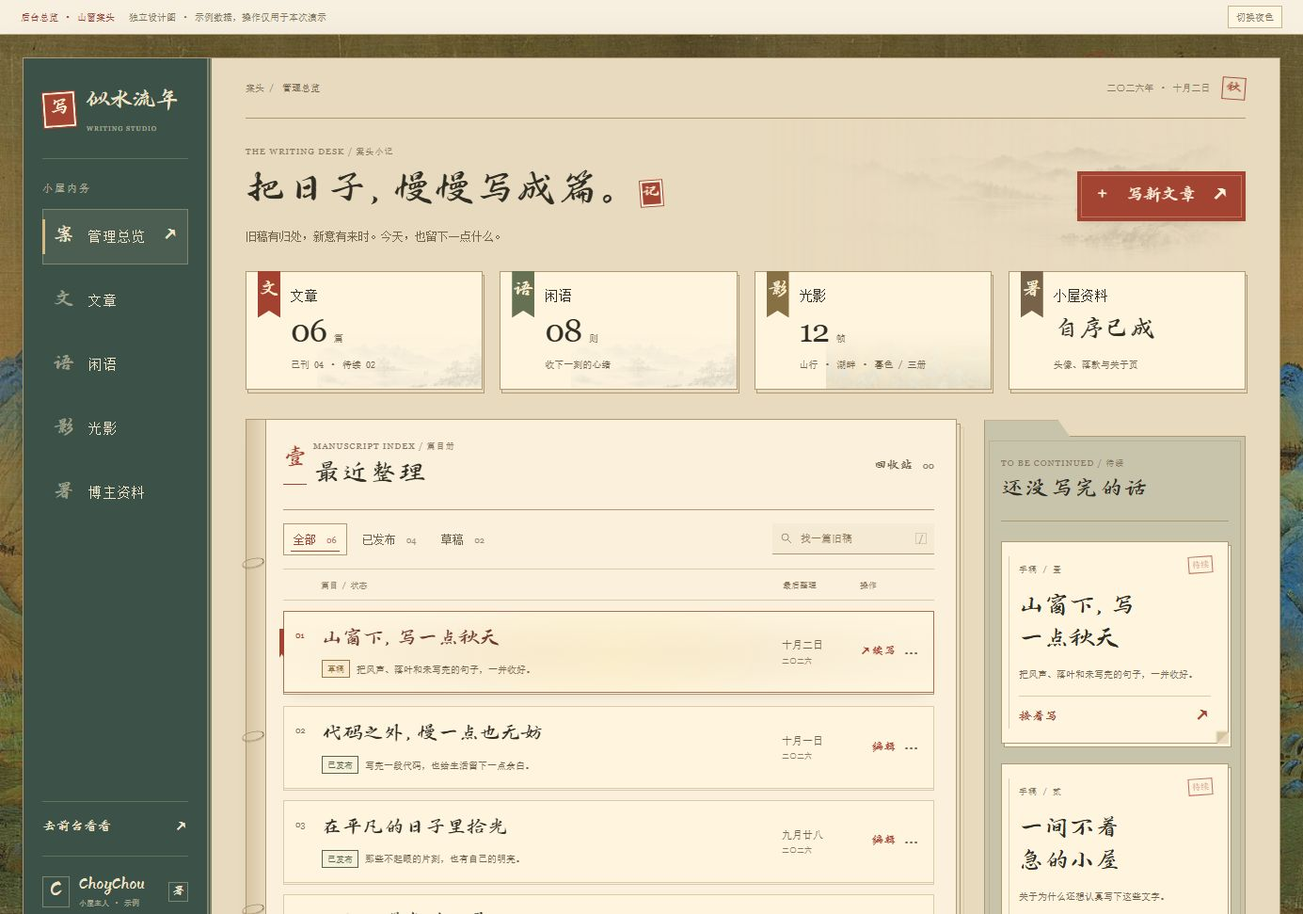
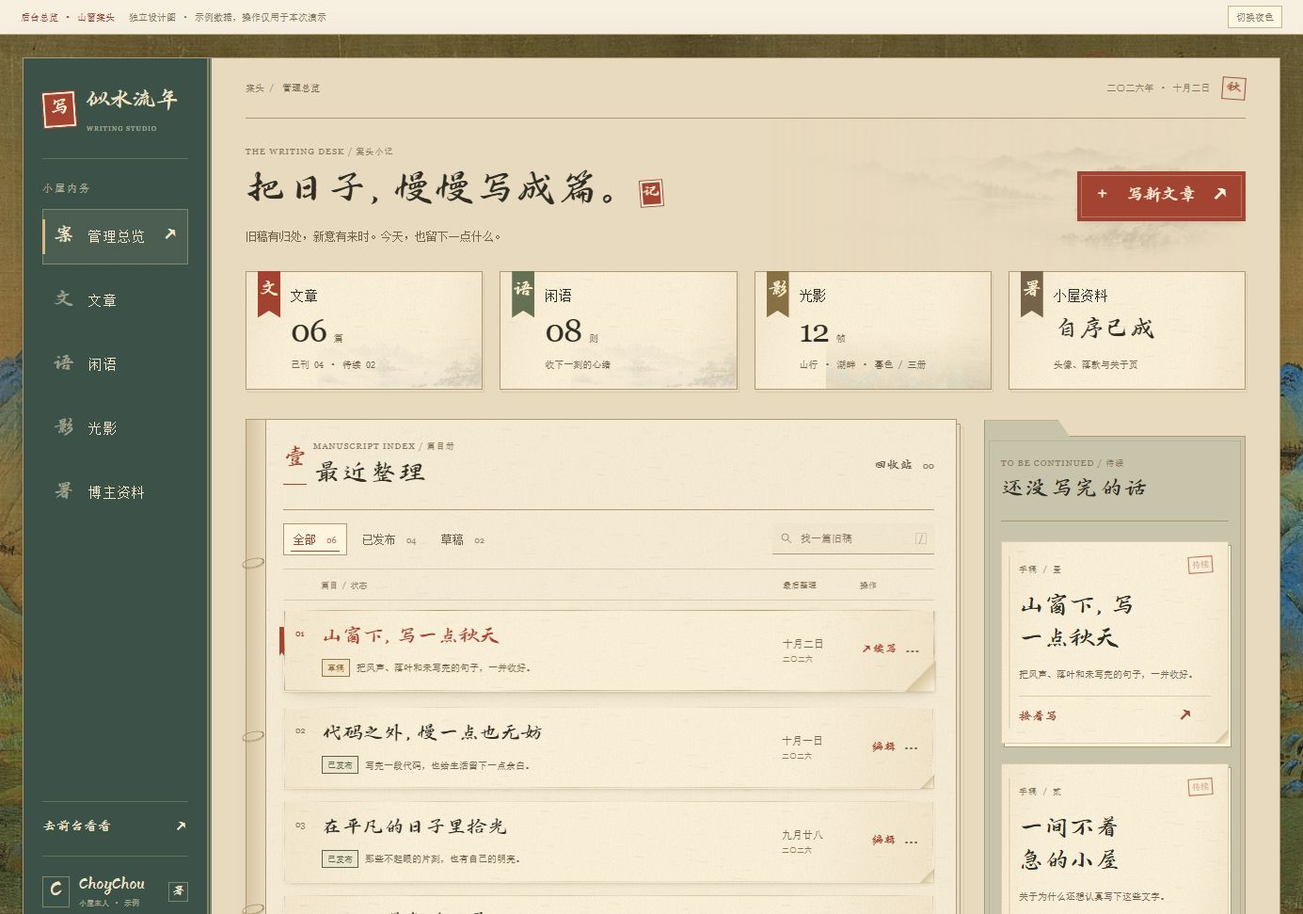
design(admin): add matte paper texture and page motion

diff --git a/effect-preview/admin-desk-overview-v1.html b/effect-preview/admin-desk-overview-v1.html
@@ -33,12 +33,12 @@
           <div class="filter-line"><div class="filters" role="group" aria-label="文章发布状态"><button type="button" data-filter="all" aria-pressed="true">全部 <span>06</span></button><button type="button" data-filter="published" aria-pressed="false">已发布 <span>04</span></button><button type="button" data-filter="draft" aria-pressed="false">草稿 <span>02</span></button></div><label class="search"><svg viewBox="0 0 20 20" aria-hidden="true"><circle cx="8" cy="8" r="5"></circle><path d="m12 12 5 5"></path></svg><input id="search" type="search" placeholder="找一篇旧稿" aria-label="搜索标题、摘要或 slug"><kbd aria-hidden="true">/</kbd></label></div>
           <div class="list-caption" aria-hidden="true"><span>篇目 / 状态</span><span>最后整理</span><span>操作</span></div>
           <div class="post-list" aria-label="最近文章" role="list">
-            <article class="post" role="listitem" data-id="1" data-status="draft" data-date="2026-10-02" data-slug="autumn-window"><span class="post-index" aria-hidden="true">01</span><div class="post-copy"><button class="post-title" type="button">山窗下，写一点秋天</button><p>把风声、落叶和未写完的句子，一并收好。</p><div><span class="status draft">草稿</span><span class="post-slug">/autumn-window</span></div></div><time datetime="2026-10-02">十月二日<small>二〇二六</small></time><div class="post-ops"><button class="edit-post" type="button">续写 <span>↗</span></button><details><summary aria-label="山窗下，写一点秋天：更多操作">···</summary><div><button class="trash-post" type="button">移入回收站</button></div></details></div></article>
-            <article class="post" role="listitem" data-id="2" data-status="published" data-date="2026-10-01" data-slug="slow-code"><span class="post-index" aria-hidden="true">02</span><div class="post-copy"><button class="post-title" type="button">代码之外，慢一点也无妨</button><p>写完一段代码，也给生活留下一点余白。</p><div><span class="status published">已发布</span><span class="post-slug">/slow-code</span></div></div><time datetime="2026-10-01">十月一日<small>二〇二六</small></time><div class="post-ops"><button class="edit-post" type="button">编辑 <span>↗</span></button><details><summary aria-label="代码之外，慢一点也无妨：更多操作">···</summary><div><button class="trash-post" type="button">移入回收站</button></div></details></div></article>
-            <article class="post" role="listitem" data-id="3" data-status="published" data-date="2026-09-28" data-slug="daily-light"><span class="post-index" aria-hidden="true">03</span><div class="post-copy"><button class="post-title" type="button">在平凡的日子里拾光</button><p>那些不起眼的片刻，也有自己的明亮。</p><div><span class="status published">已发布</span><span class="post-slug">/daily-light</span></div></div><time datetime="2026-09-28">九月廿八<small>二〇二六</small></time><div class="post-ops"><button class="edit-post" type="button">编辑 <span>↗</span></button><details><summary aria-label="在平凡的日子里拾光：更多操作">···</summary><div><button class="trash-post" type="button">移入回收站</button></div></details></div></article>
-            <article class="post" role="listitem" data-id="4" data-status="draft" data-date="2026-09-26" data-slug="unhurried-room"><span class="post-index" aria-hidden="true">04</span><div class="post-copy"><button class="post-title" type="button">一间不着急的小屋</button><p>关于为什么还想认真写下这些文字。</p><div><span class="status draft">草稿</span><span class="post-slug">/unhurried-room</span></div></div><time datetime="2026-09-26">九月廿六<small>二〇二六</small></time><div class="post-ops"><button class="edit-post" type="button">续写 <span>↗</span></button><details><summary aria-label="一间不着急的小屋：更多操作">···</summary><div><button class="trash-post" type="button">移入回收站</button></div></details></div></article>
-            <article class="post" role="listitem" data-id="5" data-status="published" data-date="2026-09-22" data-slug="mountain-path"><span class="post-index" aria-hidden="true">05</span><div class="post-copy"><button class="post-title" type="button">沿着山路，走走停停</button><p>把经过的桥与远山，存进一册记忆。</p><div><span class="status published">已发布</span><span class="post-slug">/mountain-path</span></div></div><time datetime="2026-09-22">九月廿二<small>二〇二六</small></time><div class="post-ops"><button class="edit-post" type="button">编辑 <span>↗</span></button><details><summary aria-label="沿着山路，走走停停：更多操作">···</summary><div><button class="trash-post" type="button">移入回收站</button></div></details></div></article>
-            <article class="post" role="listitem" data-id="6" data-status="published" data-date="2026-09-18" data-slug="first-letter"><span class="post-index" aria-hidden="true">06</span><div class="post-copy"><button class="post-title" type="button">写给路过这里的你</button><p>山水有相逢，来日皆可期。</p><div><span class="status published">已发布</span><span class="post-slug">/first-letter</span></div></div><time datetime="2026-09-18">九月十八<small>二〇二六</small></time><div class="post-ops"><button class="edit-post" type="button">编辑 <span>↗</span></button><details><summary aria-label="写给路过这里的你：更多操作">···</summary><div><button class="trash-post" type="button">移入回收站</button></div></details></div></article>
+            <article class="post" role="listitem" data-id="1" data-status="draft" data-date="2026-10-02" data-slug="autumn-window"><span class="post-index" aria-hidden="true">01</span><div class="post-copy"><button class="post-title" type="button">山窗下，写一点秋天</button><p>把风声、落叶和未写完的句子，一并收好。</p><div><span class="status draft">草稿</span><span class="post-slug">/autumn-window</span></div></div><time datetime="2026-10-02">十月二日<small>二〇二六</small></time><div class="post-ops"><button class="edit-post" type="button">续写 <span>↗</span></button><details><summary aria-label="山窗下，写一点秋天：更多操作">···</summary><div><button class="trash-post" type="button">移入回收站</button></div></details></div><i class="paper-corner" aria-hidden="true"></i></article>
+            <article class="post" role="listitem" data-id="2" data-status="published" data-date="2026-10-01" data-slug="slow-code"><span class="post-index" aria-hidden="true">02</span><div class="post-copy"><button class="post-title" type="button">代码之外，慢一点也无妨</button><p>写完一段代码，也给生活留下一点余白。</p><div><span class="status published">已发布</span><span class="post-slug">/slow-code</span></div></div><time datetime="2026-10-01">十月一日<small>二〇二六</small></time><div class="post-ops"><button class="edit-post" type="button">编辑 <span>↗</span></button><details><summary aria-label="代码之外，慢一点也无妨：更多操作">···</summary><div><button class="trash-post" type="button">移入回收站</button></div></details></div><i class="paper-corner" aria-hidden="true"></i></article>
+            <article class="post" role="listitem" data-id="3" data-status="published" data-date="2026-09-28" data-slug="daily-light"><span class="post-index" aria-hidden="true">03</span><div class="post-copy"><button class="post-title" type="button">在平凡的日子里拾光</button><p>那些不起眼的片刻，也有自己的明亮。</p><div><span class="status published">已发布</span><span class="post-slug">/daily-light</span></div></div><time datetime="2026-09-28">九月廿八<small>二〇二六</small></time><div class="post-ops"><button class="edit-post" type="button">编辑 <span>↗</span></button><details><summary aria-label="在平凡的日子里拾光：更多操作">···</summary><div><button class="trash-post" type="button">移入回收站</button></div></details></div><i class="paper-corner" aria-hidden="true"></i></article>
+            <article class="post" role="listitem" data-id="4" data-status="draft" data-date="2026-09-26" data-slug="unhurried-room"><span class="post-index" aria-hidden="true">04</span><div class="post-copy"><button class="post-title" type="button">一间不着急的小屋</button><p>关于为什么还想认真写下这些文字。</p><div><span class="status draft">草稿</span><span class="post-slug">/unhurried-room</span></div></div><time datetime="2026-09-26">九月廿六<small>二〇二六</small></time><div class="post-ops"><button class="edit-post" type="button">续写 <span>↗</span></button><details><summary aria-label="一间不着急的小屋：更多操作">···</summary><div><button class="trash-post" type="button">移入回收站</button></div></details></div><i class="paper-corner" aria-hidden="true"></i></article>
+            <article class="post" role="listitem" data-id="5" data-status="published" data-date="2026-09-22" data-slug="mountain-path"><span class="post-index" aria-hidden="true">05</span><div class="post-copy"><button class="post-title" type="button">沿着山路，走走停停</button><p>把经过的桥与远山，存进一册记忆。</p><div><span class="status published">已发布</span><span class="post-slug">/mountain-path</span></div></div><time datetime="2026-09-22">九月廿二<small>二〇二六</small></time><div class="post-ops"><button class="edit-post" type="button">编辑 <span>↗</span></button><details><summary aria-label="沿着山路，走走停停：更多操作">···</summary><div><button class="trash-post" type="button">移入回收站</button></div></details></div><i class="paper-corner" aria-hidden="true"></i></article>
+            <article class="post" role="listitem" data-id="6" data-status="published" data-date="2026-09-18" data-slug="first-letter"><span class="post-index" aria-hidden="true">06</span><div class="post-copy"><button class="post-title" type="button">写给路过这里的你</button><p>山水有相逢，来日皆可期。</p><div><span class="status published">已发布</span><span class="post-slug">/first-letter</span></div></div><time datetime="2026-09-18">九月十八<small>二〇二六</small></time><div class="post-ops"><button class="edit-post" type="button">编辑 <span>↗</span></button><details><summary aria-label="写给路过这里的你：更多操作">···</summary><div><button class="trash-post" type="button">移入回收站</button></div></details></div><i class="paper-corner" aria-hidden="true"></i></article>
           </div>
           <div class="empty" hidden><i>寻</i><p id="empty-copy">没有找到符合条件的篇目。</p><button type="button" id="clear-filter">清除筛选</button></div>
           <footer class="list-foot"><span id="result-count" role="status">共六篇 · 按最近整理排列</span><button class="text-button" type="button" id="show-drafts">只看待续 <span>↗</span></button></footer>

diff --git a/effect-preview/admin-desk-overview-v1.css b/effect-preview/admin-desk-overview-v1.css
@@ -97,15 +97,16 @@ main {min-width:0;padding:0 36px;}
 .list-caption {display:grid;grid-template-columns:minmax(0,1fr) 72px 67px;gap:15px;padding:12px 0 10px;border-bottom:1px solid var(--fine);font:9px var(--song);color:var(--faint);}
 .list-caption>span:first-child {padding-left:28px;}
 .post-list {display:grid;gap:12px;padding-top:13px;}
-.post {position:relative;isolation:isolate;display:grid;grid-template-columns:18px minmax(0,1fr) 72px 67px;align-items:center;gap:10px;padding:15px 12px;background:var(--card);border:1px solid var(--fine);box-shadow:0 2px 0 -1px var(--panel),0 2px 0 var(--fine);transition:transform .35s var(--ease),border-color .35s,box-shadow .35s;}
-.post::before {content:'';position:absolute;z-index:-1;inset:1px;pointer-events:none;background:radial-gradient(ellipse 230px 130px at var(--mx,30%) var(--my,50%),#fff3c982,transparent 75%),radial-gradient(ellipse at var(--mx,30%) var(--my,50%),#ac855224,transparent 85%);opacity:0;transition:opacity .35s;}
+.post {position:relative;isolation:isolate;display:grid;grid-template-columns:18px minmax(0,1fr) 72px 67px;align-items:center;gap:10px;padding:15px 12px;background:none;border:1px solid transparent;box-shadow:0 1px 2px #6c51221a,0 5px 8px -7px var(--shadow);transform-origin:8% 50%;transition:transform .38s var(--ease),box-shadow .38s;}
+.post::before {content:'';position:absolute;z-index:-1;inset:0;pointer-events:none;border:1px solid var(--fine);background:linear-gradient(100deg,#a3855017,transparent 18% 78%,#9d7e461c),url('admin-paper-fibers.svg'),var(--card);clip-path:polygon(0 1.5%,8% .3%,16% 1%,24% 0,33% .7%,44% .2%,52% 1%,63% .4%,75% 0,84% .8%,94% .2%,100% 1.4%,99.9% 24%,100% 52%,99.8% 79%,100% 98.8%,91% 99.7%,82% 99.1%,70% 100%,57% 99.5%,44% 100%,32% 99.2%,21% 99.8%,10% 99.1%,0 99.7%,.15% 74%,0 49%,.12% 23%);opacity:1;transition:border-color .3s;}
 .post::after {content:'';position:absolute;left:-5px;top:18px;width:5px;height:31px;background:var(--seal);clip-path:polygon(0 0,100% 0,100% 100%,50% 87%,0 100%);transform:scaleY(0);transform-origin:top;transition:transform .35s var(--ease);}
-.post:hover,.post:focus-within {z-index:1;border-color:color-mix(in srgb,var(--seal) 48%,var(--line));box-shadow:0 2px 0 -1px var(--panel),0 2px 0 var(--line),0 9px 15px -12px var(--shadow);}
+.post:hover,.post:focus-within {z-index:1;box-shadow:var(--shade-x,2px) 9px 13px -9px var(--shadow),0 1px 2px #6c512226;}
+.post:hover::before,.post:focus-within::before {border-color:var(--line);}
 .post:has(details[open]) {z-index:5;}
-@media(hover:hover) and (pointer:fine) {.post:hover {transform:translateY(-2px);}}
+@media(hover:hover) and (pointer:fine) {.post:hover {transform:perspective(1100px) translateY(-4px) rotateX(var(--rx,0deg)) rotateY(var(--ry,0deg));}}
 .post:hover .post-index,.post:focus-within .post-index {color:var(--seal);}
 .post:hover::before,.post:focus-within::before {opacity:1;}
-.post:hover::after,.post:focus-within::after {transform:scaleY(1);}
+.post:hover::after,.post:focus-within::after {transform:scaleY(1);animation:page-tab-unfurl .55s var(--ease);}
 .post-index {align-self:start;font:9px Georgia,serif;color:var(--faint);padding-top:5px;transition:color .35s;}
 .post-copy {min-width:0;display:flex;align-items:center;flex-wrap:wrap;gap:7px;}
 .post-title {width:100%;border:0;padding:0;background:none;text-align:left;font:22px/1.35 var(--brush);letter-spacing:.025em;text-wrap:balance;transition:color .3s;}
@@ -157,9 +158,27 @@ main {min-width:0;padding:0 36px;}
 .draft-note:hover .note-fold,.draft-note:focus-visible .note-fold {width:24px;height:24px;}
 .draft-note:hover .note-action b {transform:translate(2px,-2px);}
 @media(hover:hover) and (pointer:fine) {
-  .metric:hover,.draft-note:hover {background-image:radial-gradient(ellipse 180px 130px at var(--mx,50%) var(--my,50%),#fff3c94d,transparent 85%);}
-  .draft-note:hover {transform:perspective(900px) translateY(-2px) rotateX(var(--rx,0deg)) rotateY(var(--ry,0deg));}
+  .metric:hover {transform:translateY(-4px);}
+  .draft-note:hover {transform:perspective(900px) translateY(-7px) rotateX(var(--rx,0deg)) rotateY(var(--ry,0deg));box-shadow:3px 5px 0 -1px var(--card),3px 5px 0 var(--line),var(--shade-x,3px) 17px 20px -12px var(--shadow);}
 }
+/* 哑光纤维、暗色压痕与微毛边，纸面上不绘制反光亮斑。 */
+.metric,.draft-note,dialog {background-image:linear-gradient(100deg,#a3855014,transparent 22% 77%,#9d7e4618),url('admin-paper-fibers.svg');}
+.archive {background-image:url('admin-paper-fibers.svg');}
+.metric {transition:transform .4s var(--ease),border-color .4s,box-shadow .4s;box-shadow:2px 3px 0 -1px var(--paper),2px 3px 0 var(--fine),0 4px 8px -7px var(--shadow);}
+.metric-tab {transform-origin:50% 0;transition:height .45s var(--ease),transform .45s;}
+.metric:hover .metric-tab,.metric:focus-visible .metric-tab {height:70px;animation:bookmark-sway .7s var(--ease);}
+.metric-number {transition:transform .4s var(--ease);}
+.metric:hover .metric-number {transform:translateY(-2px);}
+.draft-note {border-color:var(--fine);}
+.draft-note::before {border-left:2px solid #b4956433;box-shadow:1px 0 0 #fff5de50;}
+.note-action {padding-right:18px;}
+.paper-corner,.note-fold {position:absolute;z-index:2;pointer-events:none;right:-1px;bottom:-1px;width:15px;height:15px;background:linear-gradient(135deg,transparent 45%,#70532438 46%,var(--back) 50%,var(--card) 100%),url('admin-paper-fibers.svg');clip-path:polygon(0 100%,100% 0,100% 100%);filter:drop-shadow(-2px -2px 2px var(--shadow));transition:width .45s var(--ease),height .45s var(--ease),filter .45s;}
+.post:hover .paper-corner,.post:focus-within .paper-corner {width:calc(28px + var(--curl,0) * 11px);height:calc(28px + var(--curl,0) * 11px);}
+.draft-note:hover .note-fold,.draft-note:focus-visible .note-fold {width:calc(34px + var(--curl,0) * 10px);height:calc(34px + var(--curl,0) * 10px);}
+.paper-corner::after {content:'';position:absolute;inset:0;border-right:1px solid #90774a40;border-bottom:1px solid #90774a40;}
+.metric:active,.draft-note:active {transform:translateY(0);}
+@keyframes page-tab-unfurl {0% {transform:scaleY(.15) rotate(-10deg);}60% {transform:scaleY(1.12) rotate(5deg);}100% {transform:scaleY(1) rotate(0deg);}}
+@keyframes bookmark-sway {0% {transform:rotate(0deg);}35% {transform:rotate(8deg);}65% {transform:rotate(-3deg);}100% {transform:rotate(0deg);}}
 .quick-notes {margin-top:24px;border-top:1px solid var(--line);border-bottom:1px solid var(--line);padding:0 3px;}
 .quick-notes button {display:flex;align-items:center;width:100%;gap:11px;padding:18px 0;text-align:left;background:none;border:0;border-bottom:1px solid var(--fine);transition:color .3s;}
 .quick-notes button:last-child {border-bottom:0;}
@@ -193,8 +212,7 @@ dialog::backdrop {background:#292313a3;backdrop-filter:blur(4px);}
 .noscript {text-align:center;padding:16px;background:var(--card);font-size:11px;color:var(--soft);}
 :root[data-theme=dark] .welcome-wash,:root[data-theme=dark] .metric::before {filter:brightness(.65) sepia(.2);}
 :root[data-theme=dark] .draft {color:#d6b182;}
-:root[data-theme=dark] .post::before {background:radial-gradient(ellipse 230px 130px at var(--mx,30%) var(--my,50%),#e8c28b1d,transparent 80%);}
-:root[data-theme=dark] .metric:hover,:root[data-theme=dark] .draft-note:hover {background-image:radial-gradient(ellipse 180px 130px at var(--mx,50%) var(--my,50%),#e8c28b14,transparent 85%);}
+:root[data-theme=dark] .post::before {background:linear-gradient(100deg,#1612081c,transparent 18% 78%,#21160924),url('admin-paper-fibers.svg'),var(--card);}
 
 /* 纸卡内边距与表头对齐；不挤占手机的正文宽度。 */
 .list-caption {padding-inline:12px;gap:10px;}
@@ -213,4 +231,5 @@ dialog::backdrop {background:#292313a3;backdrop-filter:blur(4px);}
 }
 @media(max-width:375px) {.welcome h1 {font-size:31px;}.welcome h1 .seal {margin-left:4px;}.metric-number {font-size:27px;}.profile-status {font-size:21px;}.metric p {font-size:8px;}.post {grid-template-columns:10px minmax(0,1fr) 50px;gap:5px;}.post-title {font-size:20px;}.draft-note h3 {font-size:21px;}.draft-note::after {font-size:7px;right:6px;}}
 @media(max-width:620px) {.post {padding-inline:8px;}.post::after {left:-4px;}.post-list {gap:13px;}.edit-post::before {display:none;}}
-@media(prefers-reduced-motion:reduce) {html {scroll-behavior:auto;}*,*::before,*::after {transition:none!important;animation:none!important;}.primary:hover,.post:hover,.draft-note:hover,.draft-note:focus-visible {transform:none;}.draft-note:hover .note-action b {transform:none;}.metric:hover,.draft-note:hover {background-image:none;}}
+@media(hover:none) {.paper-corner,.note-fold {width:15px!important;height:15px!important;}}
+@media(prefers-reduced-motion:reduce) {html {scroll-behavior:auto;}*,*::before,*::after {transition:none!important;animation:none!important;}.primary:hover,.post:hover,.metric:hover,.metric:focus-visible,.draft-note:hover,.draft-note:focus-visible {transform:none;}.metric:hover .metric-number,.draft-note:hover .note-action b {transform:none;}.paper-corner,.note-fold {width:15px!important;height:15px!important;}}

diff --git a/effect-preview/admin-desk-overview-v1.js b/effect-preview/admin-desk-overview-v1.js
@@ -25,6 +25,7 @@
     $('#draft-title').focus();
   }
   function refresh() {
+    cancelListMotion();
     const query = $('#search').value.trim().toLocaleLowerCase('zh-CN');
     const active = rows.filter(row => !row.dataset.trashed);
     const published = active.filter(row => row.dataset.status === 'published').length;
@@ -101,13 +102,13 @@
     row.querySelector('summary').setAttribute('aria-label', title + '：更多操作');
     row.querySelector('time').dateTime = '2026-10-02';row.querySelector('time').innerHTML = '十月二日<small>二〇二六</small>';row.dataset.date = '2026-10-02';
     bodies.set(row.dataset.id, $('#draft-body').value);
-    list.prepend(row);inTrash = false;filter = 'all';$('#search').value = '';refresh();editor.close();toast('已收好这份手稿（本次演示）。');
+    list.prepend(row);inTrash = false;filter = 'all';$('#search').value = '';refresh();revealRows();editor.close();toast('已收好这份手稿（本次演示）。');
   });
-  function chooseFilter(value) {filter = value;inTrash = false;refresh();}
+  function chooseFilter(value) {filter = value;inTrash = false;refresh();revealRows();}
   $$('.filters button').forEach(button => button.addEventListener('click', () => chooseFilter(button.dataset.filter)));
   $('#show-drafts').addEventListener('click', () => chooseFilter('draft'));
   $('[data-metric=all]').addEventListener('click', () => {$('#search').value = '';chooseFilter('all');$('#archive').scrollIntoView({behavior:matchMedia('(prefers-reduced-motion: reduce)').matches ? 'instant' : 'smooth'});});
-  $('#trash-toggle').addEventListener('click', () => {inTrash = !inTrash;$('#search').value = '';filter = 'all';refresh();});
+  $('#trash-toggle').addEventListener('click', () => {inTrash = !inTrash;$('#search').value = '';filter = 'all';refresh();revealRows();});
   $('#clear-filter').addEventListener('click', () => {$('#search').value = '';chooseFilter('all');});
   $('#search').addEventListener('input', refresh);
   const modules = {
@@ -135,13 +136,30 @@
   });
   const reducedMotion = matchMedia('(prefers-reduced-motion: reduce)');
   const fineHover = matchMedia('(hover: hover) and (pointer: fine)');
+  const listAnimations = new Map();
+  function cancelListMotion() {
+    listAnimations.forEach(animation => animation.cancel());
+    listAnimations.clear();
+  }
+  function revealRows() {
+    cancelListMotion();
+    if (reducedMotion.matches) return;
+    rows.filter(row => !row.hidden).forEach((row,index) => {
+      const animation = row.animate(
+        [{opacity:.35,transform:'translateY(8px)'},{opacity:1,transform:'translateY(0)'}],
+        {duration:340,delay:Math.min(index*38,152),easing:'cubic-bezier(.2,.7,.2,1)'}
+      );
+      listAnimations.set(row,animation);
+      animation.onfinish = () => {if (listAnimations.get(row) === animation) listAnimations.delete(row);};
+    });
+  }
   const interactivePaper = '.post,.metric,.draft-note';
   let paperTarget = null, paperFrame = 0, pointerPosition = null;
   function clearPaperPointer() {
     if (paperFrame) cancelAnimationFrame(paperFrame);
     paperFrame = 0;
     if (paperTarget) {
-      ['--mx','--my','--rx','--ry'].forEach(property => paperTarget.style.removeProperty(property));
+      ['--mx','--my','--rx','--ry','--shade-x','--curl'].forEach(property => paperTarget.style.removeProperty(property));
     }
     paperTarget = null;
   }
@@ -161,8 +179,10 @@
       const y = Math.min(1,Math.max(0,(pointerPosition.y-box.top)/box.height));
       paperTarget.style.setProperty('--mx',`${x*100}%`);
       paperTarget.style.setProperty('--my',`${y*100}%`);
-      paperTarget.style.setProperty('--rx',`${(0.5-y)*1.6}deg`);
-      paperTarget.style.setProperty('--ry',`${(x-0.5)*1.6}deg`);
+      paperTarget.style.setProperty('--rx',`${(0.5-y)*2.4}deg`);
+      paperTarget.style.setProperty('--ry',`${(x-0.5)*3}deg`);
+      paperTarget.style.setProperty('--shade-x',`${(x-0.5)*8}px`);
+      paperTarget.style.setProperty('--curl',`${(x+y)/2}`);
     });
   });
   document.addEventListener('pointerout', event => {
@@ -170,7 +190,7 @@
     if (event.relatedTarget instanceof Node && paperTarget.contains(event.relatedTarget)) return;
     clearPaperPointer();
   });
-  reducedMotion.addEventListener('change',clearPaperPointer);
+  reducedMotion.addEventListener('change',() => {clearPaperPointer();cancelListMotion();});
   fineHover.addEventListener('change',clearPaperPointer);
   window.addEventListener('blur',clearPaperPointer);
   refresh();

diff --git a/effect-preview/admin-desk-overview-v1.md b/effect-preview/admin-desk-overview-v1.md
@@ -8,7 +8,7 @@
 
 沿用现有博客的青绿山水、米色宣纸、手写标题与朱印，以“案头书册”为统一结构。深松绿目录像书脊，文章区像一本篇目册，待续区像一只手稿夹，四个概览入口像书签索引。颜色用于定位，特色集中在稿册的装订边、双层页口与书签结构。
 
-控制装饰数量：整页底纸保持干净，淡山水只用于欢迎区与索引卡下沿；稿册只保留四处装订线环，手稿夹整齐叠页，每张手稿仅一个“待续”印记。每篇文章是一张独立纸卡，以 12px 间距、细边框和双线纸边分隔。标题、状态、摘要、日期和操作各有固定位置，桌面每篇文章收成两行，手机端允许标题自然平衡换行。隐藏 slug 的视觉展示（仍可搜索），不再增加胶带、随笔旁注和重复小印。
+控制装饰数量：整页底纸保持干净，淡山水只用于欢迎区与索引卡下沿；稿册只保留四处装订线环，手稿夹整齐叠页，每张手稿仅一个“待续”印记。每篇文章是一张独立纸卡，以 12px 间距、微毛边与软投影分隔。纸面使用本地 SVG 细纤维、微小纸屑和低对比边缘色差，手稿留有页边压痕；取消跟随鼠标的反光亮斑，以卷角、投影与纸页运动回应鼠标。标题、状态、摘要、日期和操作各有固定位置，桌面每篇文章收成两行，手机端允许标题自然平衡换行。隐藏 slug 的视觉展示（仍可搜索），不再增加胶带、随笔旁注和重复小印。
 
 - 左侧目录：以深松绿书脊区分导航，保留管理总览、文章、闲语、光影、博主资料。
 - 顶部：中文日期、新文章按钮和四枚书签索引，题签下沿切出书签缺口。
@@ -22,16 +22,17 @@
 
 | 元素 | 演示行为 |
 | --- | --- |
-| 概览卡 | 柔光随鼠标位置移动，书签轻微伸展、边线响应、下沿淡山水轻移；文章卡返回全部篇目 |
-| 待续手稿 | 平时整齐对齐；鼠标悬停轻抬，倾斜角度最大约 0.8 度，柔光、折角和箭头响应；点击打开手稿弹窗 |
-| 文章列表 | 每张纸卡独立分隔，悬停上移 2px，朱色页签从页边出现，柔光随鼠标位置移动，操作箭头显现；支持按发布状态筛选、搜索标题/摘要/slug |
+| 概览卡 | 悬停上移 4px；书签伸展并轻摆一次，数字轻移，下沿淡山水响应；文章卡返回全部篇目 |
+| 待续手稿 | 平时整齐对齐；鼠标悬停上移 7px，倾斜最大约 1.5 度，卷角大小与投影方向跟随鼠标，折角和箭头联动；点击打开手稿弹窗 |
+| 文章列表 | 每张纸卡独立分隔，悬停上移 4px 并微倾；朱色页签展开，卷角与投影跟随鼠标，操作箭头显现；支持按发布状态筛选、搜索标题/摘要/slug |
+| 筛选与回收站切换 | 纸卡按顺序淡入归位，每张 340ms、依次间隔 38ms，最多延迟 152ms；搜索输入直接更新，不重复播放入场 |
 | 新文章与续写 | 演示编辑篇名、小序、正文；保存后同步列表、计数和待续卡 |
 | 回收站 | 演示移入、撤销、恢复；恢复为草稿，与现有后台行为一致 |
 | 闲语、光影、资料入口 | 展示功能说明，详情页另出设计图 |
 | 日夜切换 | 仅切换本预览的纸面与文字配色 |
 | 键盘 | `/` 聚焦搜索，Escape 关闭弹窗或更多菜单，保留可见焦点 |
 
-鼠标移出后清除位置与倾斜；使用帧调度更新光影位置，新建文章和刷新后的手稿通过委托监听获得相同交互。触屏不启用跟随光影或倾斜，键盘聚焦仍有边线与页签反馈。启用减少动态效果时取消位移、倾斜与过渡。关闭 JavaScript 时仍可阅读六篇静态示例。
+鼠标移出后清除位置、投影方向与倾斜；使用帧调度更新卷角与投影，新建文章和刷新后的手稿通过委托监听获得相同交互。触屏不启用悬停倾斜或跟随鼠标，键盘聚焦仍有边线与页签反馈。启用减少动态效果时取消位移、倾斜、卷角变化和过渡，并取消正在播放的列表动画。关闭 JavaScript 时仍可阅读六篇静态示例。
 
 ## 数据与正式接入
 
@@ -44,9 +45,10 @@
 - 在 HTTP 预览中验证了 13 种宽度、日夜两套主题，共 26 组布局，覆盖 360–1440px，无横向溢出。
 - 搜索、空状态、筛选、移入回收站、撤销、恢复、新建/编辑/重新打开手稿、弹窗 Escape、快捷搜索、手机弹窗边界与减少动态效果检查通过；未发现页面脚本错误。
 - 鼠标跟随与移出复位、新建文章与重建手稿的交互、动态切换减少动态效果后的复位，以及触屏不跟随/不位移检查通过。
+- 筛选动画、动画播放途中切换减少动态效果后的取消、连续切换筛选，以及搜索不重复播放入场检查通过。
 - `node --check effect-preview/admin-desk-overview-v1.js`、`tsc --noEmit`、`next build` 通过。
 - `vitest run`：69 个测试文件、345 项断言通过，但有 5 个既有 `DailyQuote` 未处理异常（测试环境的 `echo.animate` 不存在），进程退出码为 1，不能称全套测试通过。
-- 截图：`screenshots/admin-overview-v1-desktop.jpg`、`screenshots/admin-overview-v1-mobile.jpg`、`screenshots/admin-overview-v1-dark.jpg`、`screenshots/admin-overview-v1-hover.jpg`。
+- 纸张材质资源：`admin-paper-fibers.svg`，本地生成的矢量纹理；截图：`screenshots/admin-overview-v1-desktop.jpg`、`screenshots/admin-overview-v1-mobile.jpg`、`screenshots/admin-overview-v1-dark.jpg`、`screenshots/admin-overview-v1-hover.jpg`。
 
 ![文章纸卡悬停效果](screenshots/admin-overview-v1-hover.jpg)
 
